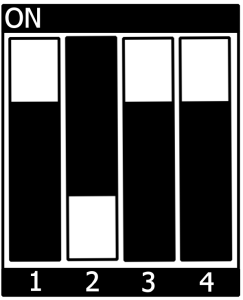
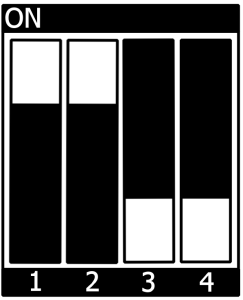
bsp: am62l: bootmode-switch: Fix eMMC bootswitch
Fix eMMC boot switch. Up to now we used DEVBOOT for eMMC booting because
primary eMMC booting was broken. With updated SoC revision this should
be fixed.

diff --git a/source/bsp/am6x/am62l/quickstart-alpha.rst b/source/bsp/am6x/am62l/quickstart-alpha.rst
@@ -293,4 +293,4 @@ eMMC booting in filesystem mode.
 *  Set the S1 DIP switch to the correct configuration for eMMC boot and then
    power up the board:
 
-   .. image:: images/eMMC.png
+   .. image:: images/DEVBOOT.png
